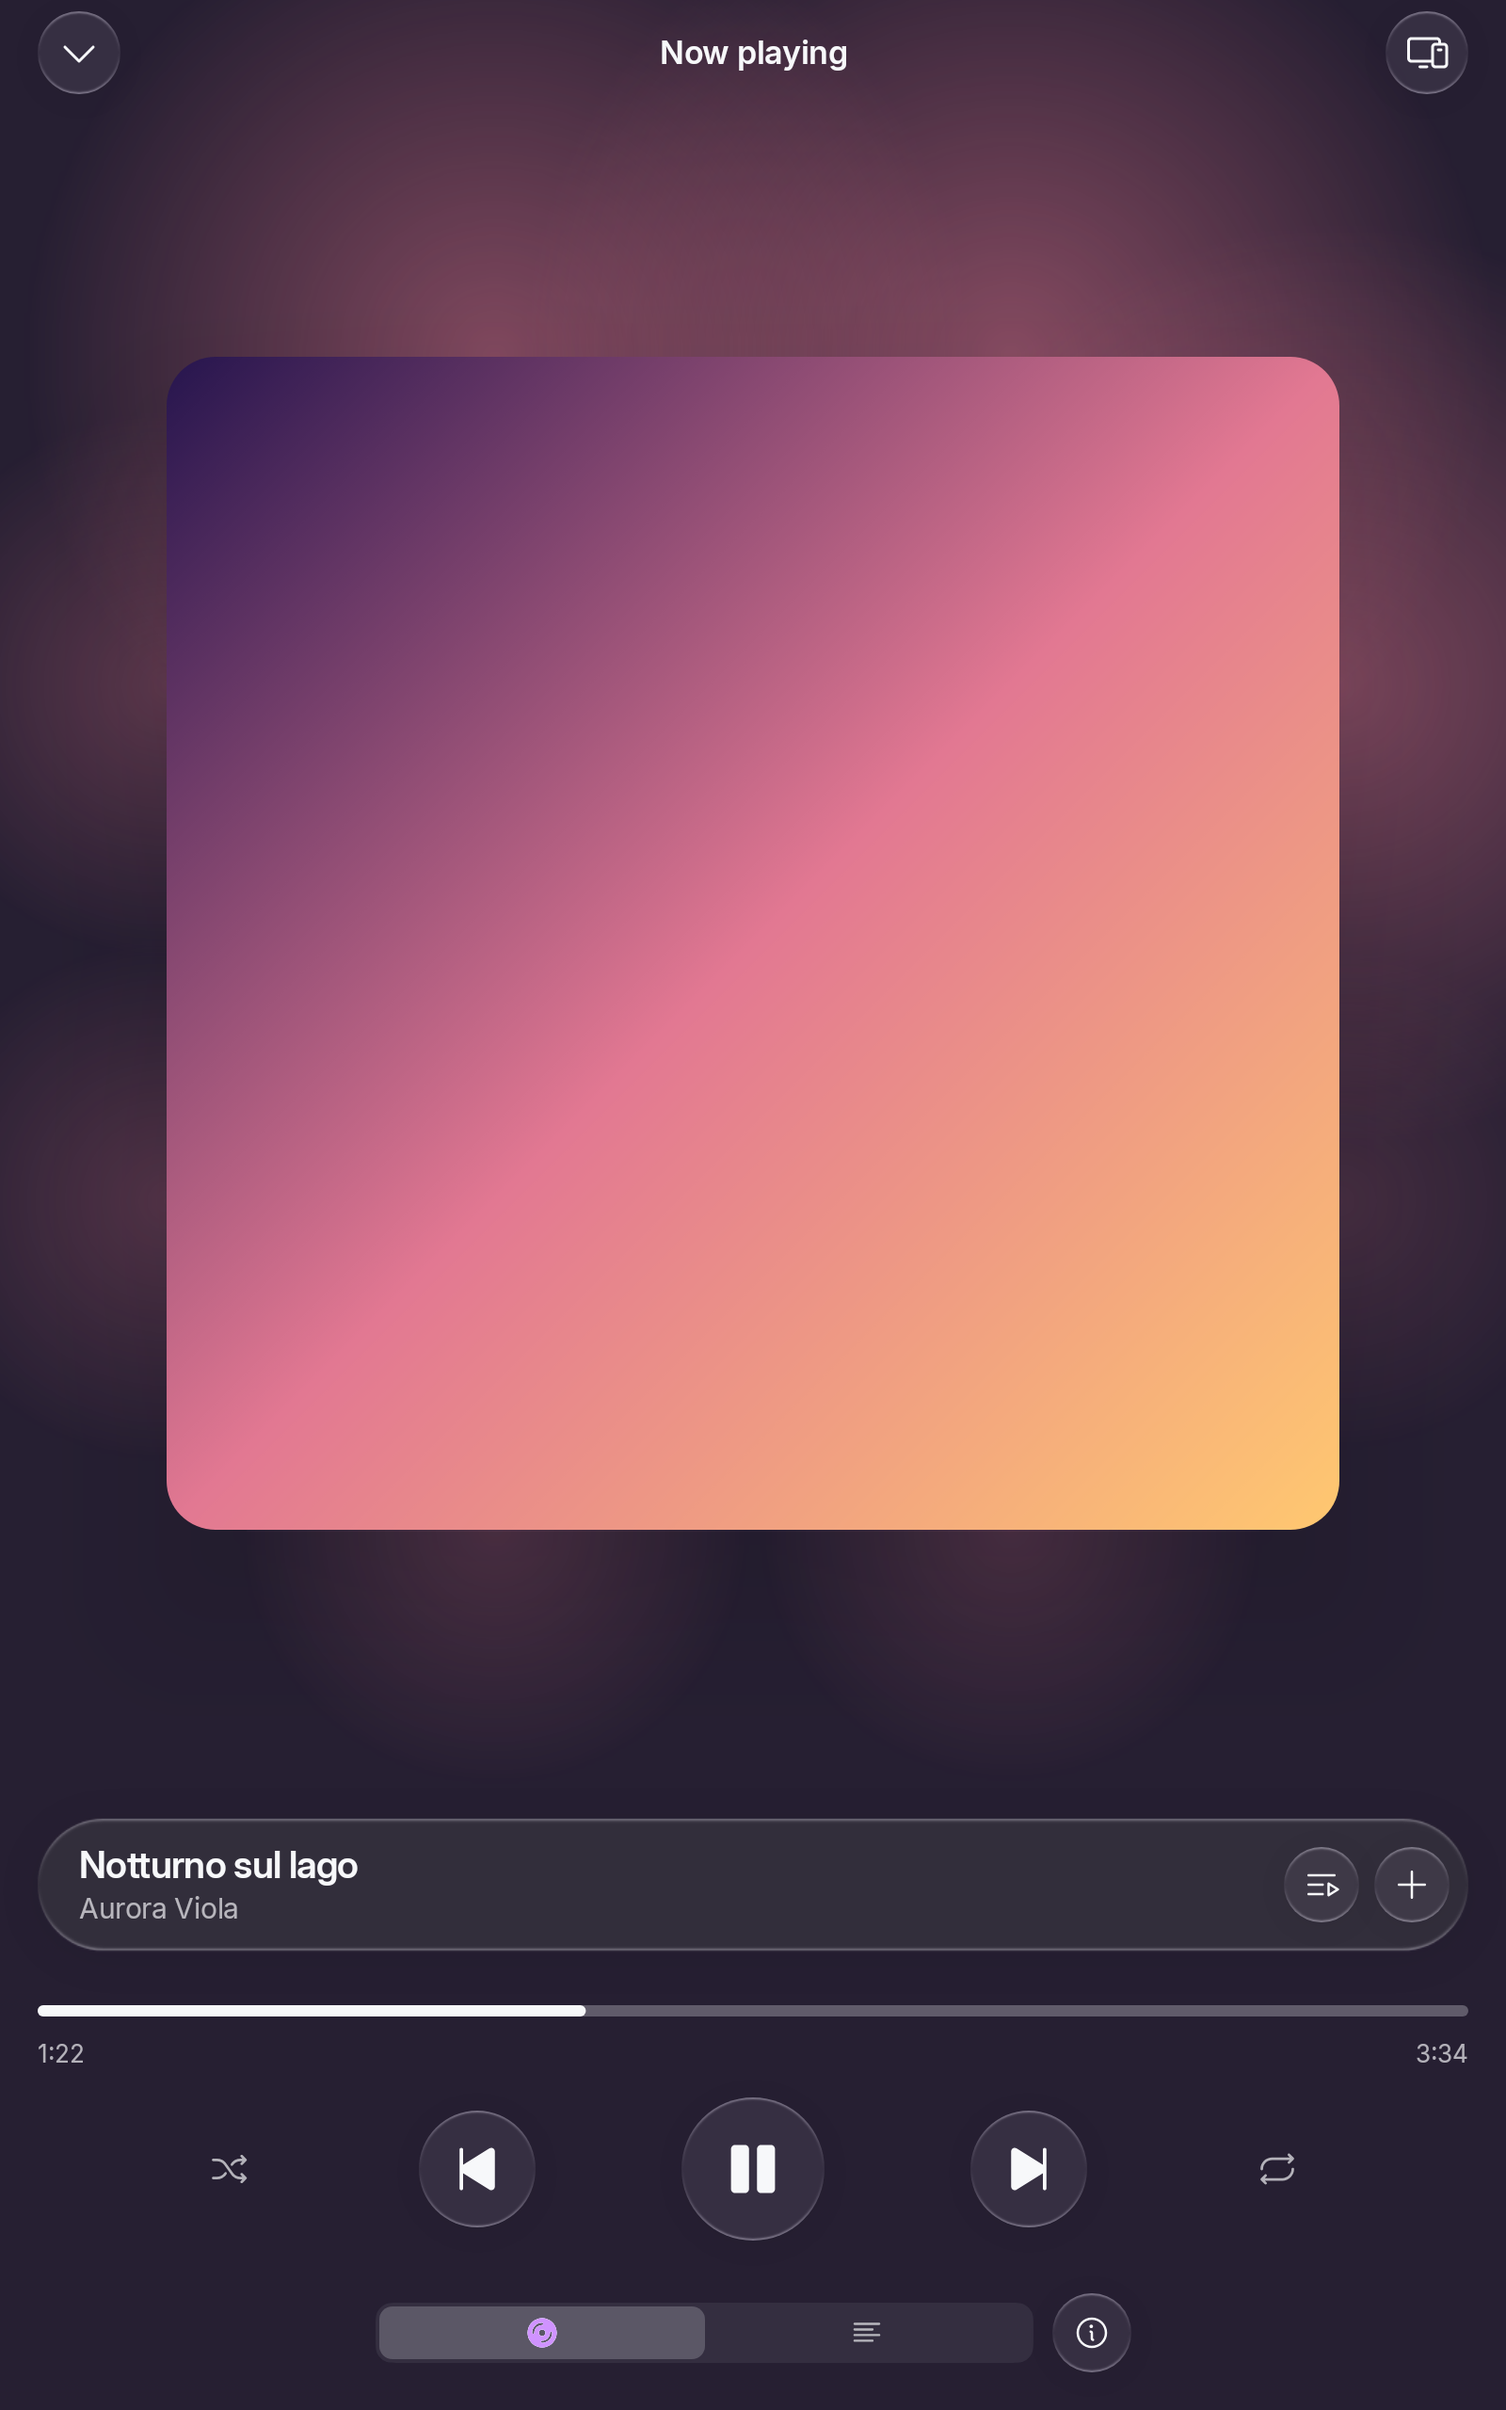
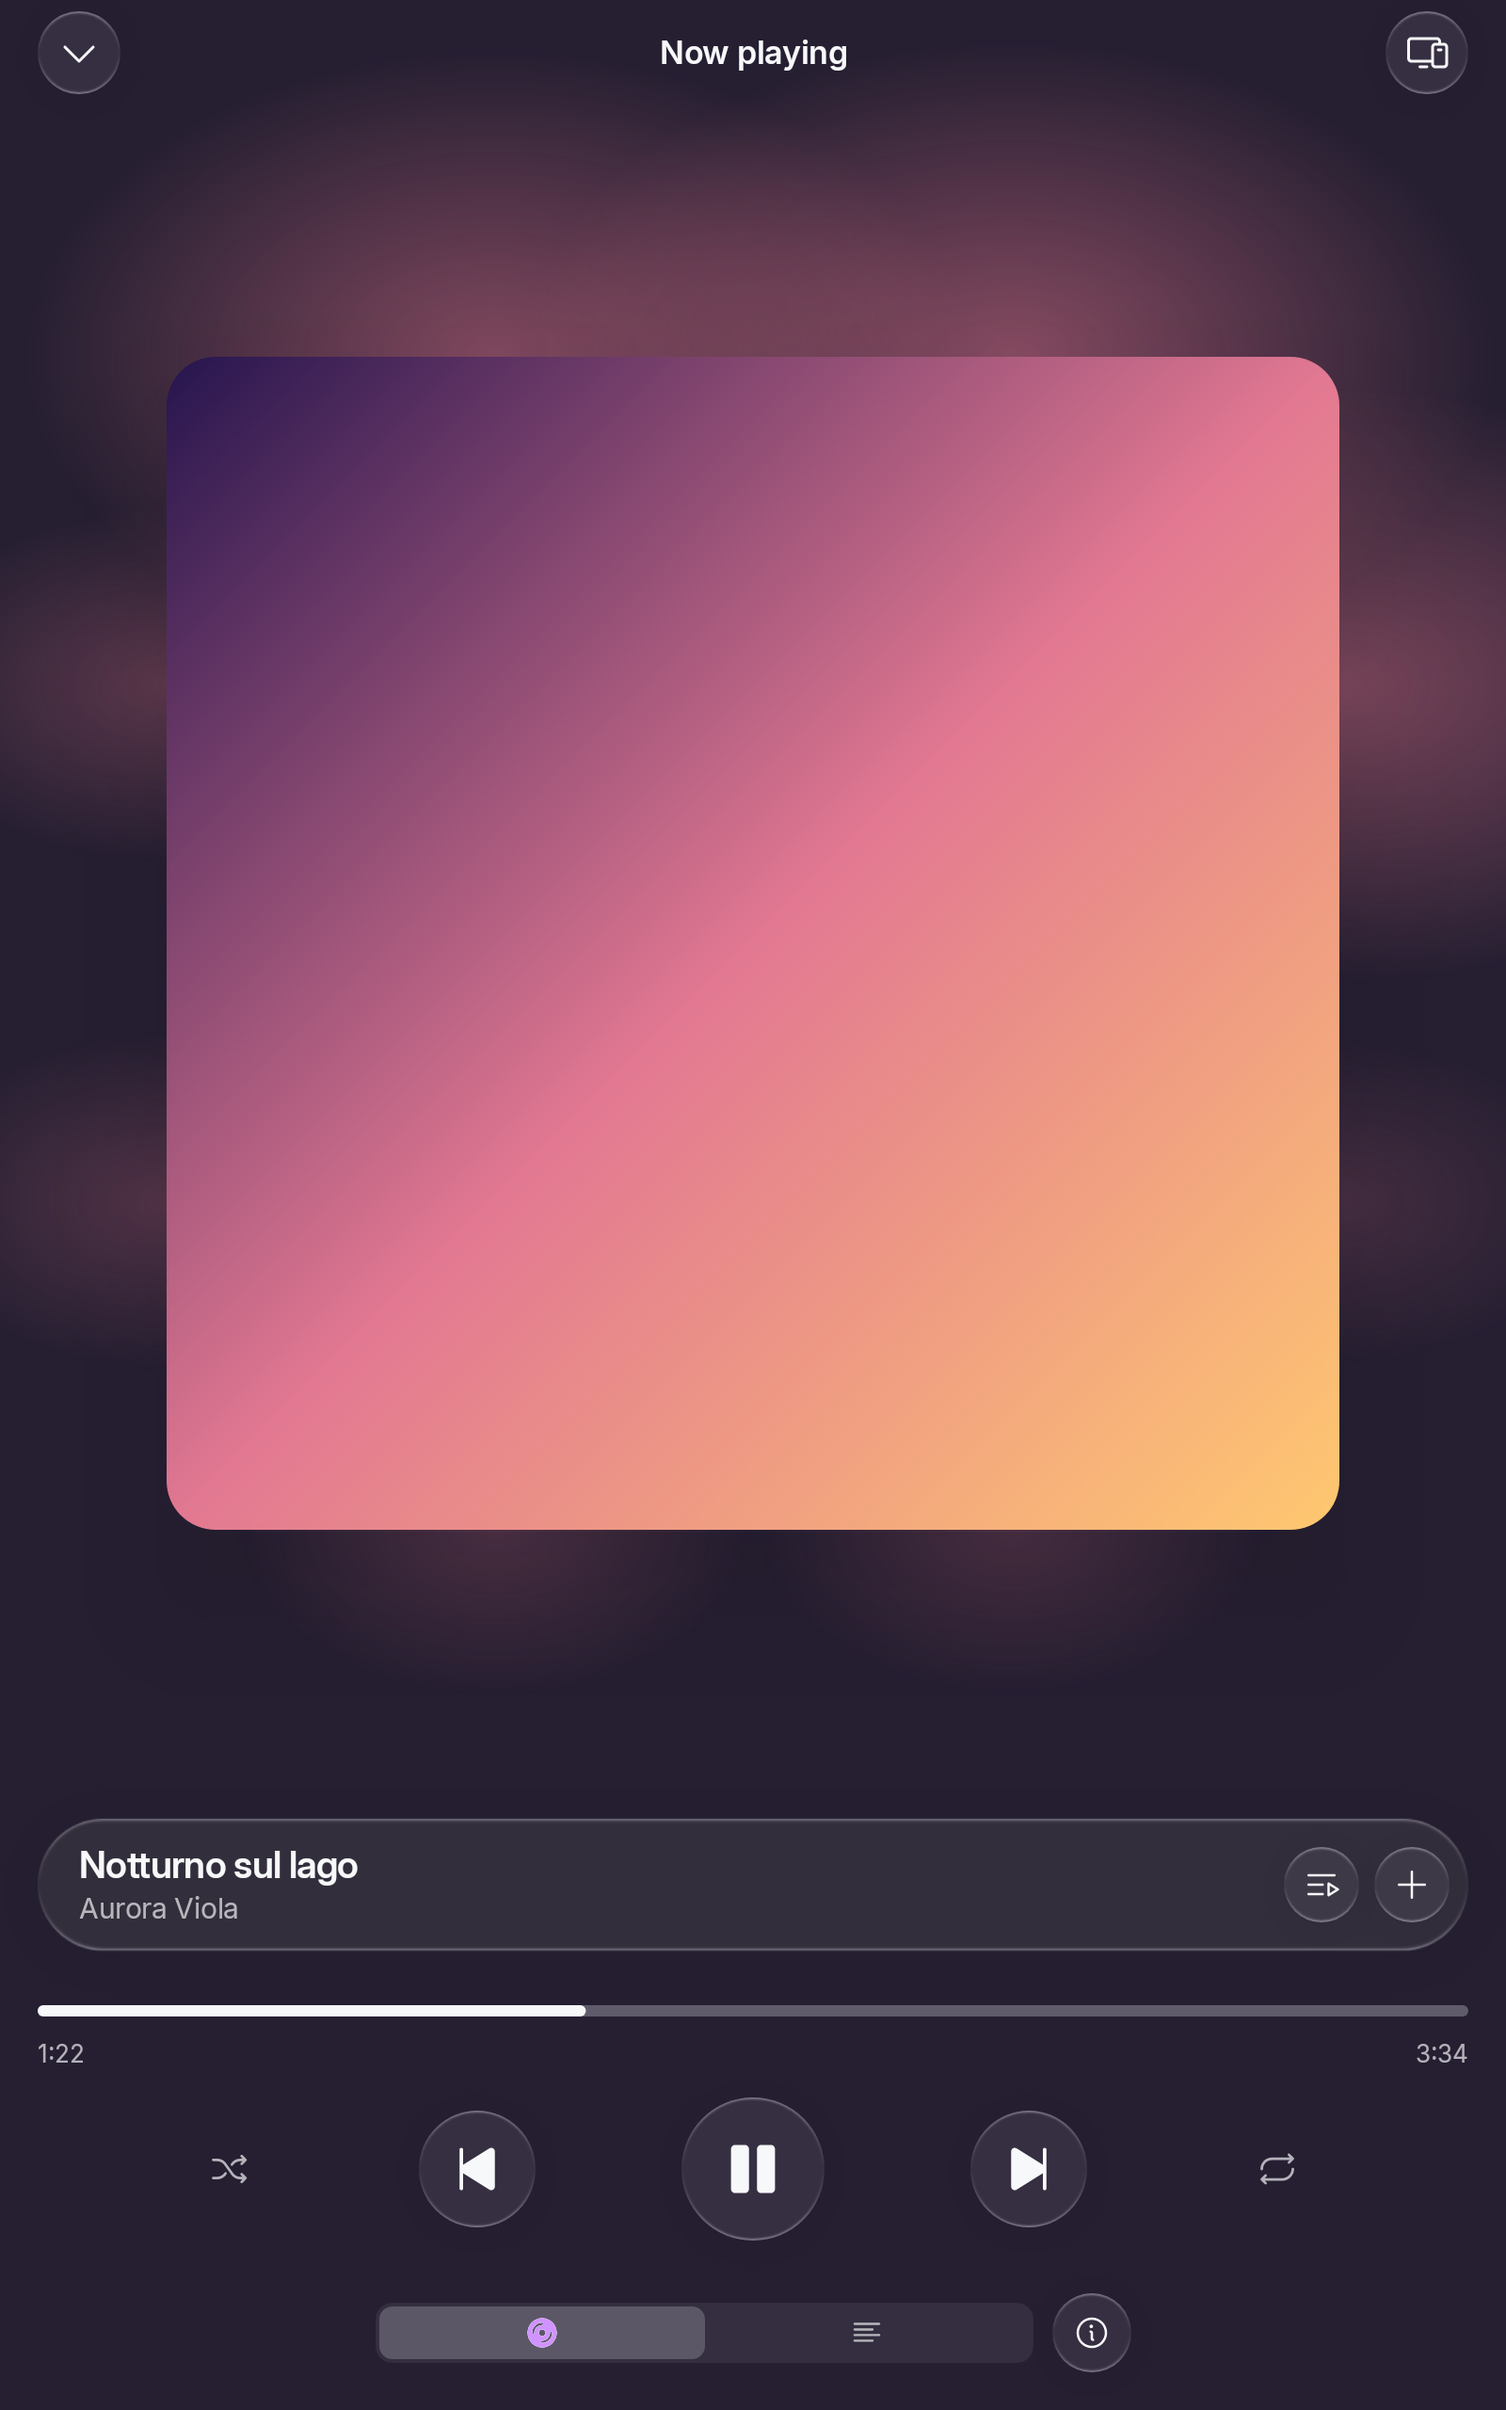
Keep phone music light closer to cover and mini player in 1.6.2

Changed region(s): [[0.1875, 0.0, 0.8125, 0.0938], [0.875, 0.375, 1.0, 0.4375], [0.875, 0.1562, 1.0, 0.1875]]

diff --git a/core/src/main/java/dev/lelonio/square/playback/AudioHaloPainter.kt b/core/src/main/java/dev/lelonio/square/playback/AudioHaloPainter.kt
@@ -96,6 +96,8 @@ class AudioHaloPainter {
                 radiusX += (width * (.23f + .04f * bass) - radiusX) * bottomMix
                 radiusY += (height * (.18f + .24f * v + .12f * bass) - radiusY) * bottomMix
             }
+            // Keep the emitted light strong, but close to the cover or the bottom of the pill.
+            radiusY *= if (mini) .70f else .65f
             val haloPaint = haloPaints[i]
             haloPaint.colorFilter = filter
             haloPaint.alpha = ((if (mini) (if (compact) .80f else 1.05f) else .90f) * sqrt(v.coerceAtLeast(0f)) * 255)

diff --git a/docs/audio-light-validation.md b/docs/audio-light-validation.md
@@ -44,3 +44,11 @@ Sul telefono il colore della copertina viene trasformato in luce conservandone l
 Aggiornati e controllati i 17 render, inclusi tema chiaro/scuro, Canvas, mini player compatto e Watch 192/216/240 dp. Il controllo di visibilità del mini player richiede ora una differenza superiore a 20 nel canale rosso tra segnale presente e assente, rispetto alla soglia di 5 della 1.6.0. La resa animata e i consumi sui dispositivi fisici restano da verificare; i render statici non dimostrano questi risultati.
 
 Il benchmark host aggiornato misura circa 19,36 ms CPU per disegno telefono, 5,91 ms mini player e 1,02 ms anello Watch. Il primo prototipo Watch che disegnava l'intero disco misurava 4,47 ms: confinare la stessa luce alla geometria utile elimina gran parte di quel lavoro. L'analisi resta circa 0,25 ms FFT / 0,016 ms leggera. Dati JBR/Robolectric con Canvas software, non GPU Android né misure di consumo sul Watch; il disegno più ampio richiede comunque la verifica fisica.
+
+## Correzione visiva 1.6.2
+
+Ridotta la sola estensione verticale della luce telefono: 35% nel lettore completo, anche durante la transizione da copertina a luce inferiore, e 30% nel mini player normale/compatto. Intensità, colori, tempi della risposta musicale e dimensioni orizzontali conservati. Il disegno dell'anello Watch non cambia.
+
+Passati gli 11 render telefono/tablet, Canvas/video e mini player, compreso il controllo di visibilità attraverso il vetro. La resa in movimento e i consumi reali restano da verificare sul dispositivo; le prove automatiche non sostituiscono questa valutazione.
+
+Benchmark host aggiornato: circa 13,20 ms per disegno telefono e 4,31 ms mini player, rispetto a 19,36 / 5,91 ms della 1.6.1; il campo luminoso più basso riduce l'area da disegnare. Restano misure del Canvas software su PC, non prestazioni o batteria Android.
